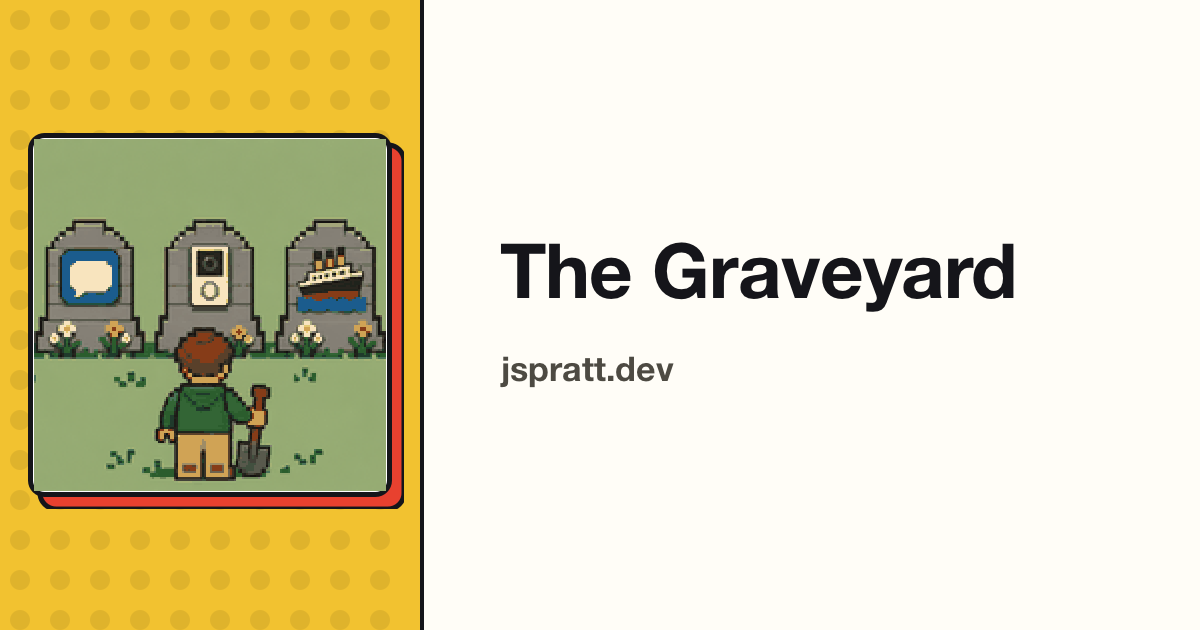
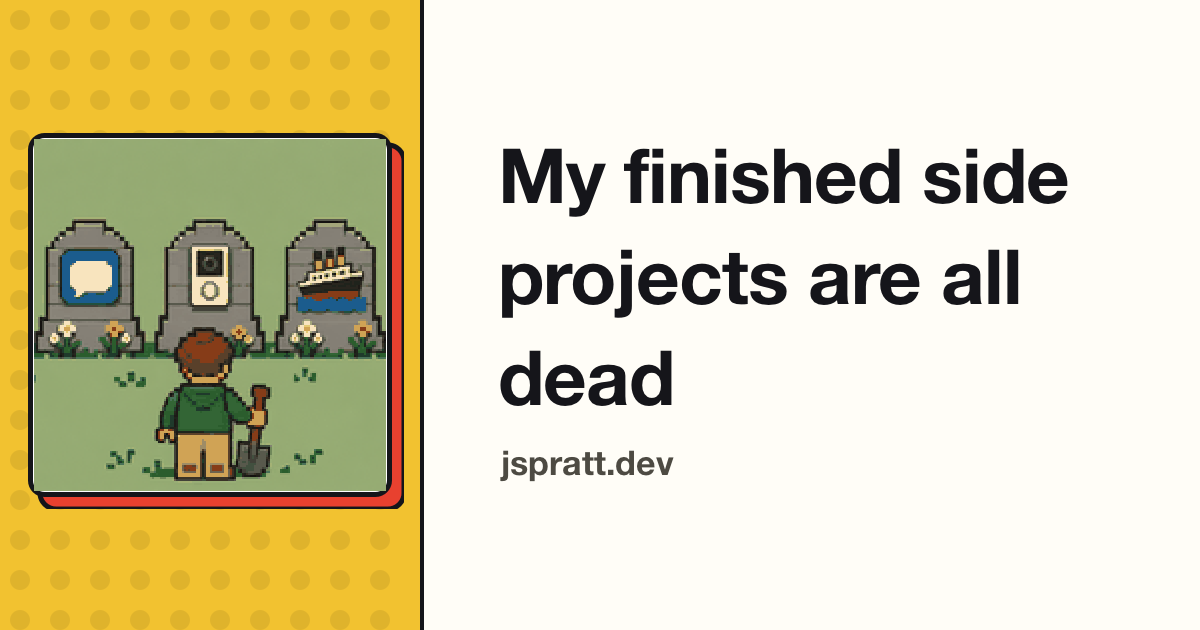
Retitle the graveyard Post and show the four dead projects (#62)
The HN title has to match the Post, and "The Graveyard" didn't say what it
was about. The new title is "My finished side projects are all dead".

Each project now has a screenshot, taken by running it locally against a
throwaway database. Post images load lazily below the fold, so the site
budget leaves them out and caps each one at 80 KB instead.

Claude-Session: https://claude.ai/code/session_01E2HgKKAvKacpk6kWCwkzFh

diff --git a/tests/layout.test.ts b/tests/layout.test.ts
@@ -201,13 +201,30 @@ test("preview builds, and sites without a token, ship no beacon", () => {
   assert.equal(noToken.html("index.html").querySelectorAll("script").length, 0);
 });
 
+/** Screenshots inside a Post, at writing/<slug>/<file>. */
+const isPostImage = (p: string): boolean =>
+  /^writing\/[^/]+\/[^/]+\.(webp|png|jpe?g)$/.test(relative(site.outDir, p));
+
 test("Lighthouse budget: the built site stays under 100 KB", () => {
   // Share cards are only fetched by link-preview crawlers, never by a page load.
+  // Post images load lazily below the fold, so they have their own cap below.
   const total = (dir: string): number =>
     readdirSync(dir).reduce((sum, f) => {
       const p = join(dir, f);
-      if (f === "social.png" || f === "cards") return sum;
+      if (f === "social.png" || f === "cards" || isPostImage(p)) return sum;
       return sum + (statSync(p).isDirectory() ? total(p) : statSync(p).size);
     }, 0);
   assert.ok(total(site.outDir) < 100 * 1024);
+});
+
+test("Lighthouse budget: each image inside a Post stays under 80 KB", () => {
+  const writing = join(site.outDir, "writing");
+  const images = readdirSync(writing, { withFileTypes: true })
+    .filter((e) => e.isDirectory())
+    .flatMap((e) => readdirSync(join(writing, e.name)).map((f) => join(writing, e.name, f)))
+    .filter(isPostImage);
+  for (const p of images) {
+    const kb = statSync(p).size / 1024;
+    assert.ok(kb < 80, `${relative(site.outDir, p)} is ${kb.toFixed(1)} KB`);
+  }
 });

diff --git a/src/styles/global.css b/src/styles/global.css
@@ -748,6 +748,21 @@ time + .tags {
   border-radius: 10px;
 }
 
+.post figure {
+  margin: 1.75em 0;
+}
+
+.post figure img {
+  display: block;
+}
+
+.post figcaption {
+  margin-top: 0.5em;
+  font-size: 0.9rem;
+  color: var(--ink-soft);
+  text-align: center;
+}
+
 .post blockquote {
   margin: 1.5em 0;
   padding: 0.75rem 1rem;

diff --git a/content/posts/the-graveyard.md b/content/posts/the-graveyard.md
@@ -1,5 +1,5 @@
 ---
-title: The Graveyard
+title: My finished side projects are all dead
 description: Every project I’ve shipped lately is dead. That doesn’t mean I didn’t finish them.
 date: 2026-11-13
 draft: false
@@ -17,6 +17,26 @@ I sat down and did a bit of soul searching and looked at what I’d built over t
 - A historically accurate Titanic sinking simulation game
 
 They were all fun to build. Every single one of them is dead now. I built them, hosted them, and then could not get anyone to try them out. But here’s the thing: I did finish them. Every one of them shipped.
+
+<figure>
+  <img src="/writing/the-graveyard/twit-rs.webp" width="1600" height="1088" loading="lazy" alt="twit.rs: a green-on-black terminal-style Twitter timeline, with my own post at the top: “shipped a twitter clone in rust. now i just need someone to tweet at.”" />
+  <figcaption><code>twit.rs</code></figcaption>
+</figure>
+
+<figure>
+  <img src="/writing/the-graveyard/spill.webp" width="1160" height="1000" loading="lazy" alt="Spill: a newspaper-style page titled The Daily Spill, with today’s prompt “What made you laugh today?” and four family members’ answers revealed." />
+  <figcaption><code>spill</code></figcaption>
+</figure>
+
+<figure>
+  <img src="/writing/the-graveyard/doorchime.webp" width="1600" height="902" loading="lazy" alt="Doorchime: a retro desktop with a buddy list, one buddy away at band practice, and an open chat window where a friend asks “omg is this aim”." />
+  <figcaption><code>doorchime</code></figcaption>
+</figure>
+
+<figure>
+  <img src="/writing/the-graveyard/twenty-boats.webp" width="1600" height="1000" loading="lazy" alt="Twenty Boats: the Titanic at 01:25, listing by the bow, with a deck plan of every lifeboat’s status and the starboard boats loading under Murdoch." />
+  <figcaption>The Titanic game, Twenty Boats</figcaption>
+</figure>
 
 If you read [my last post](/writing/the-lego-set-that-builds-itself), you know I struggle to get the same fulfillment out of building with AI. But AI is the reason most of these projects got finished at all. Back in the old days, they would have died a half-baked repo on my GitHub profile. These projects still got built. We started with an idea, and shipped a real working version of that idea. That counts for something.
 
